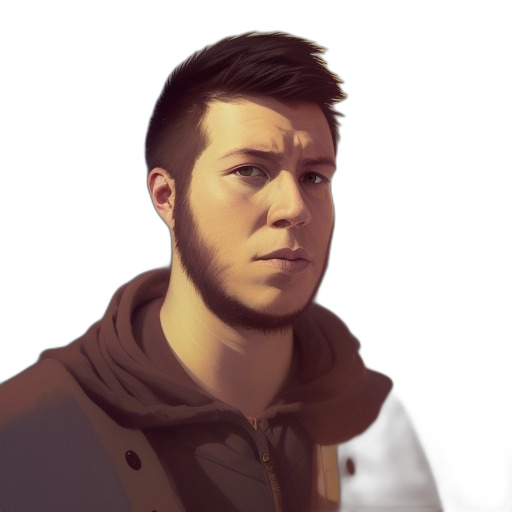
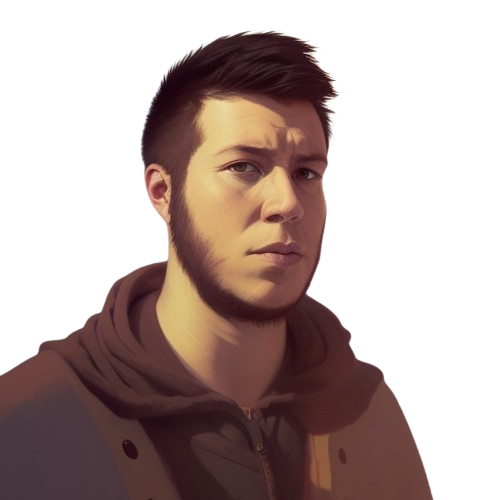
update index.html, style.css and logic.js, add test card in index

diff --git a/index.html b/index.html
@@ -3,6 +3,7 @@
 <head>
   <meta charset="UTF-8">
   <meta name="viewport" content="width=device-width,initial-scale=1.0">
+  <meta name="description" content="Portafolio de proyectos y contacto para Angel Cruz O.">
   <title>AngelCruzO - Portafolio</title>
   <link rel="stylesheet" href="css/style.css" media="all">
 </head>
@@ -26,7 +27,7 @@
       <p>Ingeniero en Software, enfocado en la ciencia de datos, inteligencia artificial. Interesado en el computo cuantico</p>
       <a class="btn" href="#">Descargar CV</a>
     </div>
-    <img class="objects" src="assets\images\objects.png" alt="imagen triangulos">
+    <img class="objects" src="assets\images\objects.png" alt="patrón triangulos">
     <img class="men" src="assets\images\men.png" alt="imagen IA">
   </section>
 
@@ -45,6 +46,32 @@
   <section id="projects">
     <div class="secText">
       <h2>Proyectos</h2>
+    </div>
+
+    <div class="content">
+
+      <!--CARD-->
+      <div class="card">
+	<!--IMAGE-->
+	<img src="assets\images\men.png" alt="">
+	<!--CARD CONTENT-->
+	<div class="card-content">
+	  <!--CARD TITLE-->
+	  <div class="card-title">
+	    <h3>Project 1</h3>
+	  </div>
+	  <!--CARD DESCRIPTION-->
+	  <div class="card-description">
+	    <p>Consectetur adipisicing facilis nobis ut maxime temporibus? Voluptas architecto laborum animi eius fugit nam? Reiciendis earum labore cupiditate laboriosam necessitatibus, neque, ipsam dolores! Natus magnam</p>
+	  </div>
+	  <!--CARD FOOTER-->
+	  <div class="card-footer">
+	    <a class="btn" href="">Demo</a>
+	    <a class="btn" href="">Web</a>
+	  </div>
+	</div>
+
+      </div>
     </div>
   </section>
 

diff --git a/css/style.css b/css/style.css
@@ -107,8 +107,9 @@ header ul li:hover a{
 #home .men{
   position: absolute;
   bottom: 20;
-  right: 100px;
+  right: 50px;
   max-height: 90vh;
+  filter: drop-shadow(0 0 10px rgba(255,255,255,.8));
 }
 
 #home .objects{
@@ -178,8 +179,54 @@ header ul li:hover a{
   margin: 0 25px;
 }
 
+/*PROYECTOS*/
+#projects .content{
+  display: flex;
+  grid-template-columns: repeat(auto-fit, minmax(300px, auto));
+  align-items: center;
+  gap: 2rem;
+  margin-top: 5rem;
+}
+
+.card img{
+  height: auto;
+  width: 100%;
+  border-radius: 0.5rem;
+  margin-bottom: 1.5rem;
+}
+
+.card{
+  padding: 25px;
+  background: #12141c;
+  border-radius: 0.5rem;
+  transition: all 0.40s ease;
+  color: #fff;
+}
+
+.card-content{
+  display: flex;
+  align-items: center;
+  flex-direction: column;
+  justify-content: space-between;
+  margin-bottom: 1rem;
+}
+
+.card-title{
+  font-size: 25px;
+  font-weight: 700;
+  padding: 20px 0;
+}
+
+.card-description{
+  font-size: 16px;
+  font-weight: 500;
+  letter-spacing: 1px;
+  text-align: justify;
+  padding: 15px 0;
+}
+
 /*RESPONSIVE*/
-@media (max-width:1200px){
+@media (360px <= width <= 1200px){
 
   header{
     padding: 20px 50px;
@@ -284,7 +331,7 @@ header ul li:hover a{
 
 }
 
-@media (max-width: 700px){
+@media (360px <= width <= 800px){
   
   #home .content h2{
     font-size: 3em;
@@ -299,6 +346,13 @@ header ul li:hover a{
 
   #home .men{
     height: 60vh;
+  }
+
+  #home .objects{
+    width: 80%;
+    right: -10%;
+    bottom: 15%;
+    margin-bottom: -20%;
   }
 }
 

diff --git a/js/logic.js b/js/logic.js
@@ -23,6 +23,7 @@ images.forEach(image => {
   const imgElement = document.createElement('img');
 
   imgElement.src = `assets/images/tech/${image}.svg`;
+  imgElement.alt = `logo ${image}`
 
   container.appendChild(imgElement);
 });
